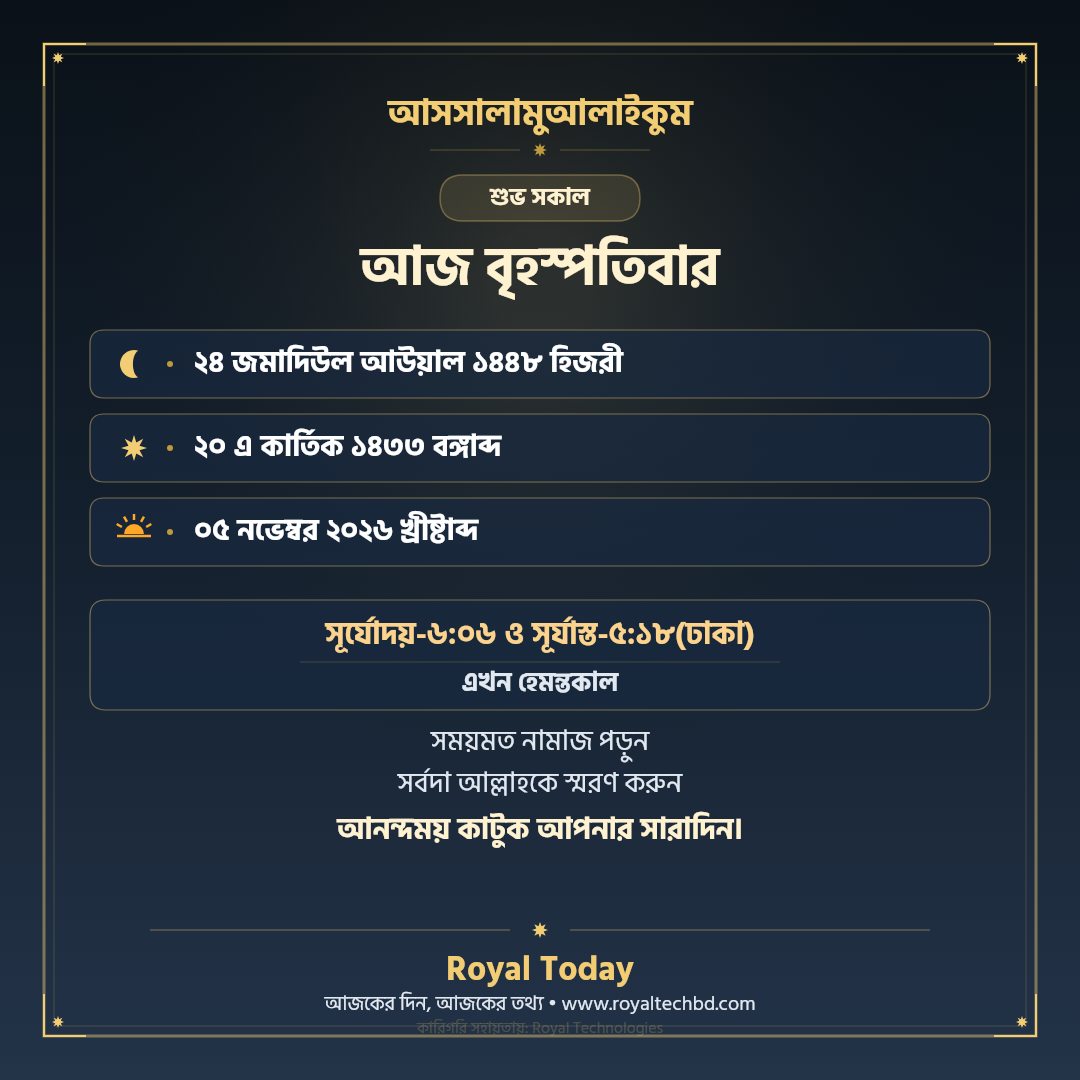
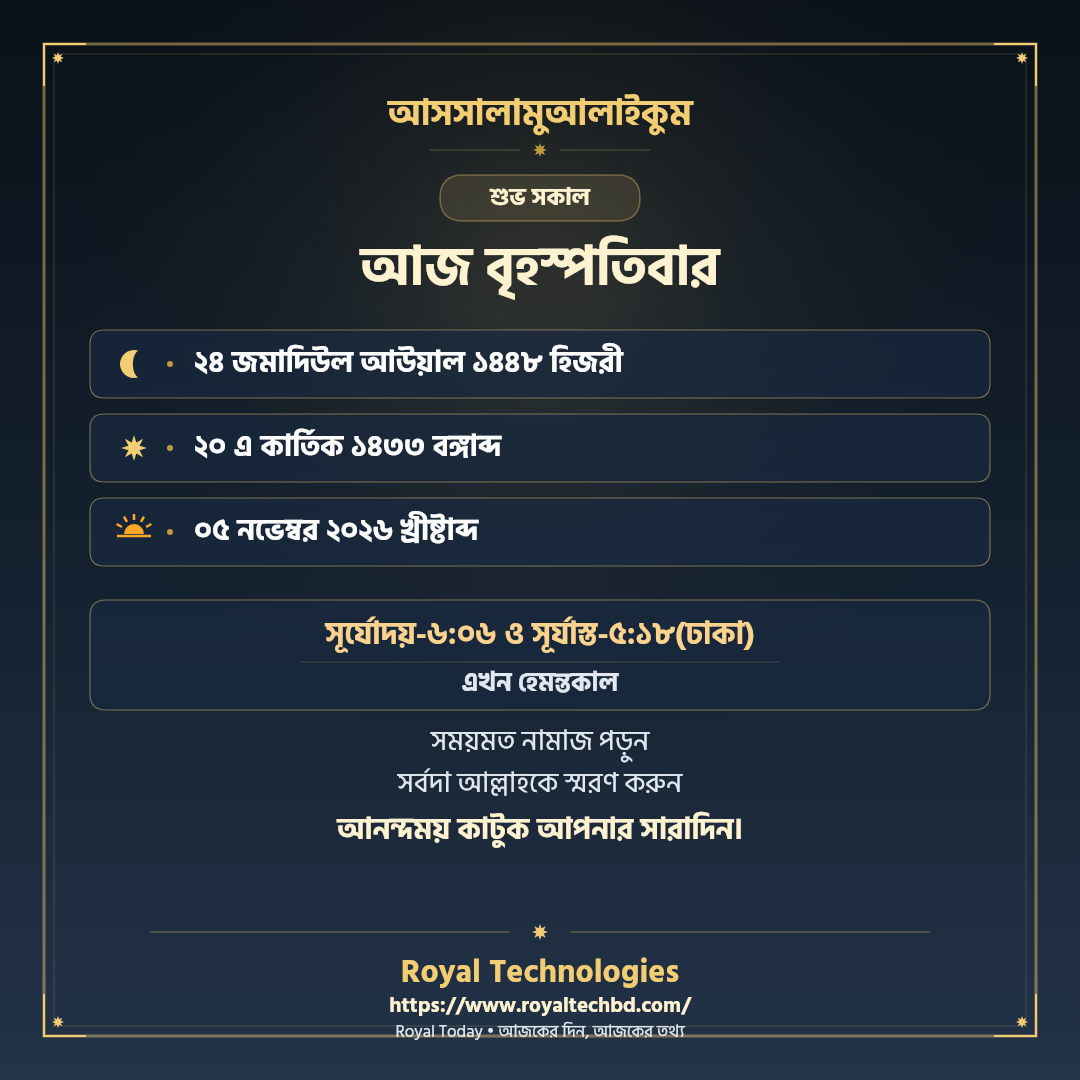
feat: update prominent branding to Royal Technologies and https://www.royaltechbd.com/

Changed region(s): [[0.1528, 0.8556, 0.8556, 0.9778]]

diff --git a/index.html b/index.html
@@ -22,13 +22,13 @@
   <!-- ── Top Navbar ── -->
   <header class="navbar">
     <div class="container nav-container">
-      <a href="#" class="brand-logo">
+      <a href="https://www.royaltechbd.com/" target="_blank" class="brand-logo" title="Royal Technologies">
         <div class="brand-icon">
-          <img src="assets/favicon.svg" alt="Royal Today" width="30" height="30">
+          <img src="assets/favicon.svg" alt="Royal Technologies" width="30" height="30">
         </div>
         <div>
-          <div class="brand-title">Royal Today</div>
-          <div class="brand-sub">আজকের দিন, আজকের তথ্য</div>
+          <div class="brand-title">Royal Technologies</div>
+          <div class="brand-sub">Royal Today — আজকের দিন, আজকের তথ্য</div>
         </div>
       </a>
 
@@ -227,13 +227,13 @@
 
   </main>
 
-  <!-- ── Footer: Royal Today Branding at the Bottom ── -->
+  <!-- ── Footer: Royal Technologies Branding at the Bottom ── -->
   <footer class="site-footer">
     <div class="container">
-      <div class="footer-brand">Royal Today</div>
-      <div class="footer-tagline">আজকের দিন, আজকের তথ্য — এক নজরে প্রতিদিন</div>
+      <div class="footer-brand">Royal Technologies</div>
+      <div class="footer-tagline">Royal Today • আজকের দিন, আজকের তথ্য — এক নজরে প্রতিদিন</div>
       <div class="footer-credits">
-        কারিগরি সহায়তায়: <a href="https://www.royaltechbd.com/" target="_blank" rel="noopener noreferrer">Royal Technologies</a>
+        অফিসিয়াল ওয়েবসাইট: <a href="https://www.royaltechbd.com/" target="_blank" rel="noopener noreferrer">https://www.royaltechbd.com/</a>
       </div>
     </div>
   </footer>

diff --git a/templates/royal-today-card.js b/templates/royal-today-card.js
@@ -467,9 +467,9 @@
     ctx.fillStyle = T.accentGold;
     ctx.fillText(blessings[2], W / 2, blessStartY + 88);
 
-    // ── H. Footer: ROYAL TODAY BRANDING AT THE BOTTOM ──
+    // ── H. Footer: ROYAL TECHNOLOGIES BRANDING AT THE BOTTOM ──
     // Bottom separator with Islamic Star
-    const footerY = 930;
+    const footerY = 932;
     ctx.strokeStyle = T.borderColor;
     ctx.lineWidth = 1;
     ctx.beginPath();
@@ -480,20 +480,21 @@
     ctx.stroke();
     drawIslamicStar(ctx, W / 2, footerY, 8, 4, T.primaryGold);
 
-    // Royal Today Brand Name (Footer)
+    // Primary Branding: Royal Technologies
     ctx.textAlign = 'center';
     ctx.fillStyle = T.primaryGold;
-    ctx.font = 'bold 34px "Hind Siliguri", sans-serif';
-    ctx.fillText('Royal Today', W / 2, footerY + 44);
+    ctx.font = 'bold 32px "Hind Siliguri", sans-serif';
+    ctx.fillText('Royal Technologies', W / 2, footerY + 44);
 
-    // Tagline & Company URL
+    // Website: https://www.royaltechbd.com/
+    ctx.fillStyle = T.accentGold;
+    ctx.font = '600 21px "Hind Siliguri", sans-serif';
+    ctx.fillText('https://www.royaltechbd.com/', W / 2, footerY + 76);
+
+    // Tagline: Royal Today • আজকের দিন, আজকের তথ্য
+    ctx.font = '500 17px "Hind Siliguri", sans-serif';
     ctx.fillStyle = T.subTextColor;
-    ctx.font = '500 20px "Hind Siliguri", sans-serif';
-    ctx.fillText('আজকের দিন, আজকের তথ্য • www.royaltechbd.com', W / 2, footerY + 76);
-
-    ctx.font = '400 16px "Hind Siliguri", sans-serif';
-    ctx.fillStyle = T.innerBorderColor;
-    ctx.fillText('কারিগরি সহায়তায়: Royal Technologies', W / 2, footerY + 100);
+    ctx.fillText('Royal Today • আজকের দিন, আজকের তথ্য', W / 2, footerY + 102);
 
     return ctx;
   }

diff --git a/assets/js/calendar-calc.js b/assets/js/calendar-calc.js
@@ -372,7 +372,9 @@ ${blessings[0]}
 ${blessings[1]}
 ${blessings[2]}
 
-#RoyalToday #SubhoSokal #BanglaCalendar #HijriCalendar #SunriseSunset #Dhaka #Bangladesh #RoyalTechnologies`;
+🌐 https://www.royaltechbd.com/
+✨ Royal Technologies | Royal Today — আজকের দিন, আজকের তথ্য
+#RoyalTechnologies #RoyalToday #SubhoSokal #BanglaCalendar #HijriCalendar #SunriseSunset #Dhaka #Bangladesh`;
 
     return {
       date: date,
@@ -386,10 +388,10 @@ ${blessings[2]}
       blessings: blessings,
       caption: caption,
       branding: {
-        name: 'Royal Today',
-        tagline: 'আজকের দিন, আজকের তথ্য',
-        website: 'www.royaltechbd.com',
-        company: 'Royal Technologies'
+        company: 'Royal Technologies',
+        website: 'https://www.royaltechbd.com/',
+        product: 'Royal Today',
+        tagline: 'আজকের দিন, আজকের তথ্য'
       }
     };
   }
